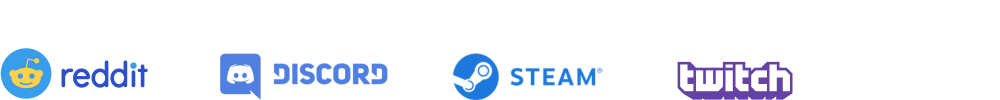
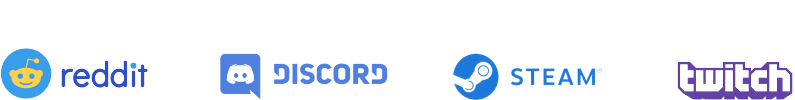
commited 4/14

Changed region(s): [[0.0, 0.48, 0.8151, 1.0], [0.8453, 0.6, 1.0, 1.0]]

diff --git a/src/components/navbar/links/Links.jsx b/src/components/navbar/links/Links.jsx
@@ -32,19 +32,26 @@ const links = [
 const Links = ({ session }) => {
   const [open, setOpen] = useState(false);
 
-
-  console.log(session?.user)
+  const name = () => {
+    const username = session?.user?.username
+    const i = username.indexOf('@')
+    const name = username.substring(0, i)
+    return name
+  }
+  
 
   return (
     <div className={styles.container}>
       <div className={styles.links}>
+        
         {links.map((link) => (
           <NavLink item={link} key={link.title} />
         ))}
         {session?.user ? (
           <>
-            <div className={styles.user}>{session.user?.isAdmin && <NavLink item={{ title: "Admin", path: "/admin" }} />}</div>
-            <form action={handleLogout}>
+            <div className={styles.user}>{session.user?.isAdmin && <NavLink item={{ title: "Admin Pannel", path: "/admin" }} />}</div>
+            <form action={handleLogout} className={styles.top_right}>
+              <span className={styles.username}>Welcome <b>{name()}</b>,</span>
               <button className={styles.logout}>Logout</button>
             </form>
           </>

diff --git a/src/app/home.module.css b/src/app/home.module.css
@@ -40,10 +40,9 @@
 }
 
 .brands {
-    width: 400px;
+    width: 300px;
     height: 40px;
     position: relative;
-    filter: grayscale(1);
 }
 
 
@@ -63,14 +62,19 @@
     .buttons {
         justify-content: center;
     }
+    .brands {
+        align-self: center;
+    }
 }
 
 @media (max-width: 768px) {
+    .container{
+        height: calc(100vh-130px );
+    }
     .title {
-        font-size: 64px;
+        margin-top: 15px;
+        font-size: 50px;
     }
 
-    .brands {
-        width: 100%;
-    }
+    
 }

diff --git a/src/app/create/page.jsx b/src/app/create/page.jsx
@@ -2,13 +2,14 @@
 import UserPostForm from '@/components/userPostForm/userPostForm'
 import { auth } from '@/lib/auth'
 import React from 'react'
+import styles from "./create.module.css"
 
 const page = async() => {
 
     const session = await auth()
 
   return (
-    <div>
+    <div className={styles.container}>
         <UserPostForm userId={session?.user.id}/>
     </div>
   )

diff --git a/src/components/navbar/links/links.module.css b/src/components/navbar/links/links.module.css
@@ -11,14 +11,25 @@
 }
 
 .user {
-    margin-left: 100px;
-    margin-right: 40px;
     font-size: 18px;
 }
 
 .mobileLinks,
 .menuButton {
     display: none;
+}
+
+.top_right{
+    display: flex;
+    flex-direction: row;
+    align-items: center;
+    justify-content: center;
+    gap: 10px;
+    margin-left: 20px;
+}
+
+.username {
+    color: var(--btn);
 }
 
 

diff --git a/src/app/about/about.module.css b/src/app/about/about.module.css
@@ -53,6 +53,20 @@
     object-fit: contain;
 }
 
+@media (max-width: 1024px) {
+    .container {
+        margin-top: 20px;
+        gap: 30px;
+    }
+    .textContainer {
+        gap: 30px;
+    }
+    .subTitle {
+        font-size: 20px;
+    }
+}
+
+
 @media (max-width: 768px) {
     .container {
         flex-direction: column;

diff --git a/src/app/contact/page.jsx b/src/app/contact/page.jsx
@@ -18,6 +18,7 @@ const ContactPage = () => {
       </div>
 
       <div className={styles.formContainer}>
+        <h1 className={styles.title}>Get in touch</h1>
         <form action="" className={styles.form}>
           <input type="text" placeholder="Name and Surname" />
           <input type="text" placeholder="Email Adress" />

diff --git a/src/app/contact/contact.module.css b/src/app/contact/contact.module.css
@@ -1,7 +1,8 @@
 .container {
     display: flex;
     align-items: center;
-    gap: 100px;
+    gap: 5vh;
+    margin-bottom: 5vh;
 }
 
 .imgContainer {
@@ -42,6 +43,11 @@
     border-radius: 5px;
     cursor: pointer;
 }
+.title {
+    font-size: 20px;
+    margin-bottom: 10px;
+}
+
 
 @media (max-width: 768px) {
     .container {

diff --git a/src/lib/auth.config.js b/src/lib/auth.config.js
@@ -15,6 +15,7 @@ export const authConfig = {
         },
         async session({ session, token }) {
             if (token) {
+                session.user.username = token.email
                 session.user.id = token.id
                 session.user.isAdmin = token.isAdmin
             }

diff --git a/src/lib/action.js b/src/lib/action.js
@@ -11,7 +11,7 @@ export const addPost = async (prevState, formData) => {
     const { title, desc,img, slug, userId } = Object.fromEntries(formData)
 
     try {
-        connectToDb()
+        connectToDb() 
         const newPost = new Post({
             title,
             desc,

diff --git a/src/app/globals.css b/src/app/globals.css
@@ -62,6 +62,10 @@ a {
 }
 
 @media (max-width: 1024px) {
+    body{
+        height: 100vh;
+        width: 100vw;
+    }
     .container {
         width: 768px;
     }

diff --git a/src/components/navbar/navbar.module.css b/src/components/navbar/navbar.module.css
@@ -18,3 +18,9 @@
     transition: transform .3s ease;
     transform: scale(1.2);
 }
+
+@media (max-width: 1024px) {
+    .logo {
+        display: none;
+    }
+}

diff --git a/src/app/create/create.module.css b/src/app/create/create.module.css
@@ -1,0 +1,4 @@
+.container {
+        margin-top: 5vh;
+        margin-bottom: 5vh;
+}
